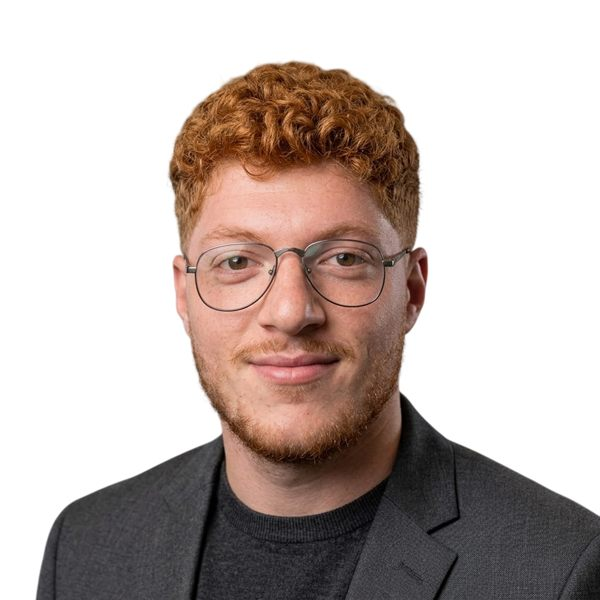
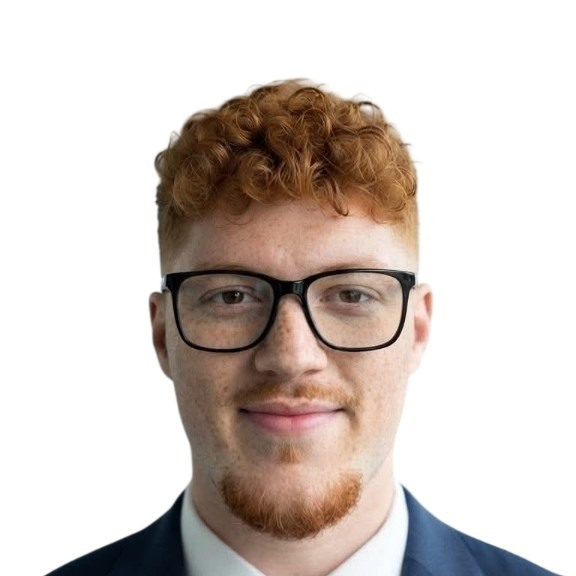
Replace the profile photo so the published site matches the local portrait.

diff --git a/index.html b/index.html
@@ -53,7 +53,7 @@
       <div class="hero-right">
         <div class="avatar-wrap">
           <div class="avatar-bg" aria-hidden="true"></div>
-          <img class="avatar" id="heroImg" src="assets/profile.jpg" alt="Portrait of Khalil Shakra" width="600" height="600" fetchpriority="high" />
+          <img class="avatar" id="heroImg" src="assets/profile.jpg" alt="Portrait of Khalil Shakra" width="576" height="576" fetchpriority="high" />
         </div>
       </div>
     </section>
